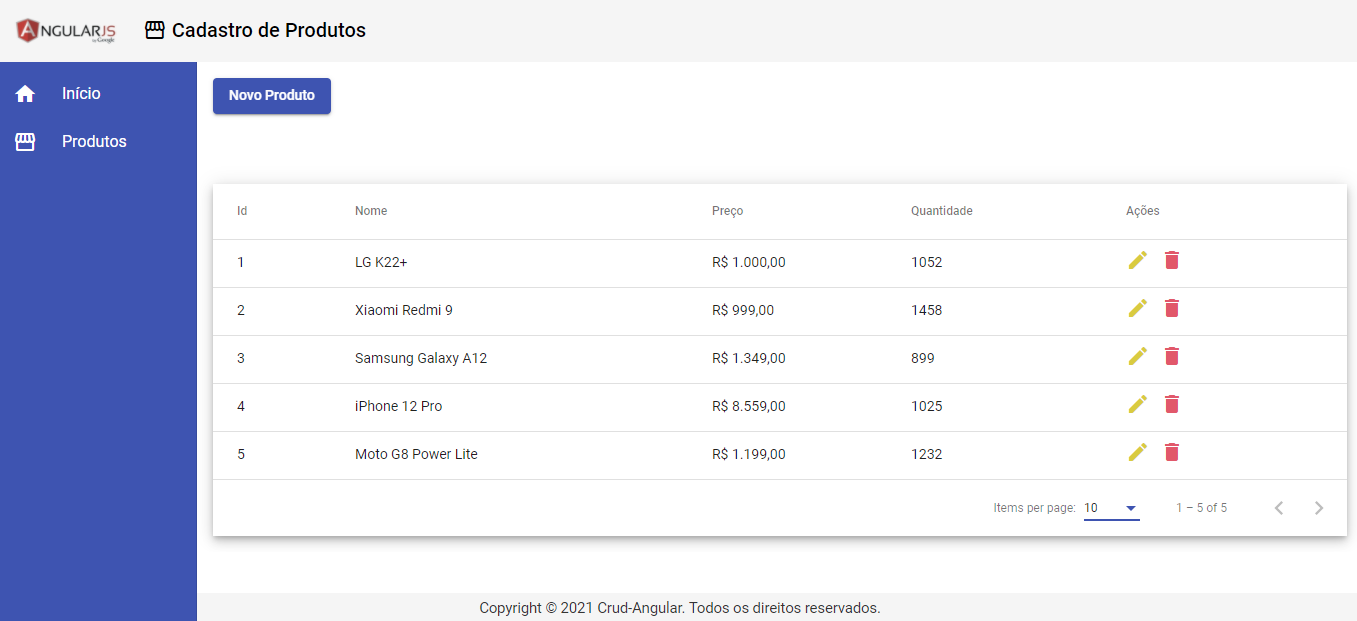
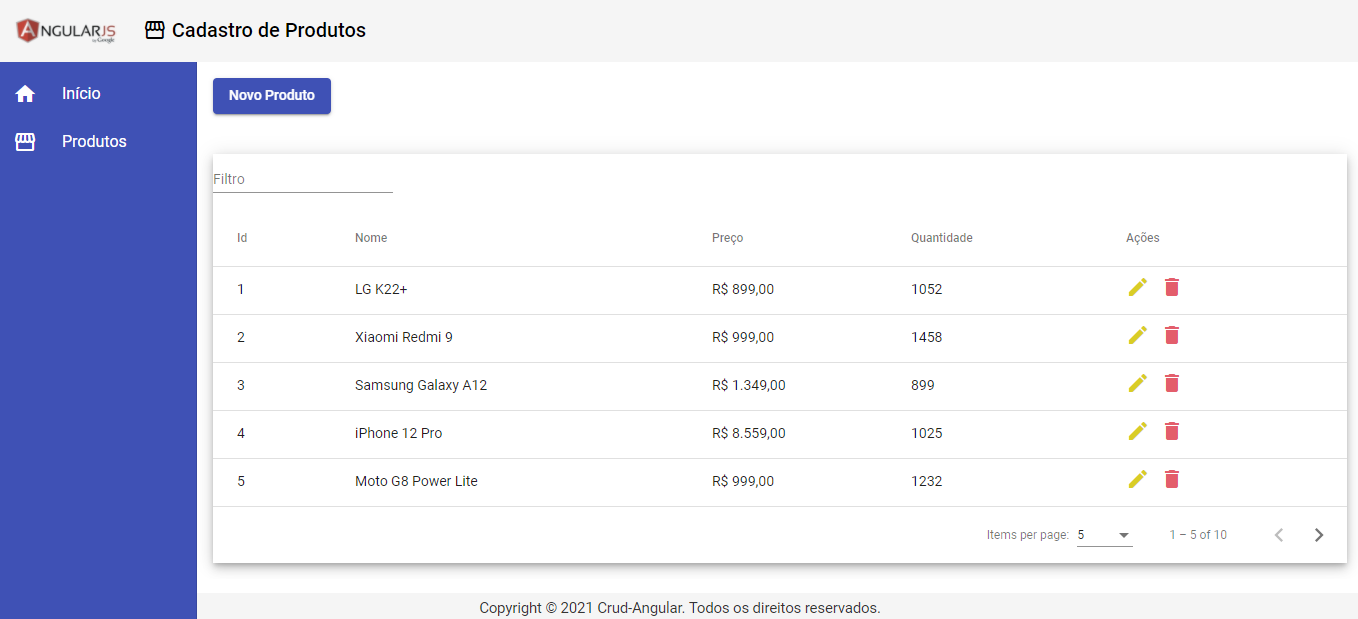
Inserção do campo de filtro

diff --git a/frontend/src/app/components/product/product-read3/product-read3.component.ts b/frontend/src/app/components/product/product-read3/product-read3.component.ts
@@ -1,23 +1,22 @@
-
 import { ProductService } from './../product.service';
 import { Product } from './../product.model';
 import { Component, OnInit, ViewChild, AfterViewInit } from '@angular/core';
 import { MatSort } from '@angular/material/sort';
 import { MatPaginator } from '@angular/material/paginator';
 import { MatTableDataSource } from '@angular/material/table';
-
-
 @Component({
   selector: 'app-product-read3',
   templateUrl: './product-read3.component.html',
   styleUrls: ['./product-read3.component.css']
 })
+
 export class ProductRead3Component implements OnInit, AfterViewInit {
 
   products!: Product[]
 
   public displayedColumns = ['id', 'name', 'price', 'storage', 'action']
   public dataSource = new MatTableDataSource<Product>();
+
   @ViewChild(MatSort) sort!: MatSort;
   @ViewChild(MatPaginator) paginator!: MatPaginator;
 
@@ -35,4 +34,7 @@ export class ProductRead3Component implements OnInit, AfterViewInit {
     this.dataSource.paginator = this.paginator
   }
 
+  applyFilter(filterValue: string) {
+    this.dataSource.filter = filterValue.trim().toLocaleLowerCase()
+  }
 }

diff --git a/frontend/src/app/components/product/product-read3/product-read3.component.html b/frontend/src/app/components/product/product-read3/product-read3.component.html
@@ -1,4 +1,11 @@
 <div class="mat-elevation-z6">
+  <!-- Filter input -->
+  <div fxLayout fxLayoutAlign="right">
+    <mat-form-field fxFlex="10%">
+      <input (keyup)="applyFilter($any($event.target).value)" type="text" placeholder="Filtro" matInput>
+    </mat-form-field>
+  </div>
+
   <table mat-table [dataSource]="dataSource" matSort>
     <!-- Id Column -->
     <ng-container matColumnDef="id">
@@ -45,6 +52,6 @@
     <tr mat-row *matRowDef="let row; columns: displayedColumns;"></tr>
 
   </table>
-  <mat-paginator [pageSize]="4" [pageSizeOptions]="[2, 4, 6, 10, 20]">
+  <mat-paginator [pageSize]="5" [pageSizeOptions]="[5, 10, 20]">
   </mat-paginator>
 </div>

diff --git a/frontend/src/app/app.module.ts b/frontend/src/app/app.module.ts
@@ -35,7 +35,6 @@ import { ProductCrudComponent } from './views/product-crud/product-crud.componen
 import { ProductRead2Component } from './components/product/product-read2/product-read2.component';
 import { ProductRead3Component } from './components/product/product-read3/product-read3.component';
 
-
 registerLocaleData(localePt)
 @NgModule({
   declarations: [
@@ -72,6 +71,7 @@ registerLocaleData(localePt)
     MatTableModule,
     MatPaginatorModule,
     MatSortModule
+
   ],
   providers: [{
     provide: LOCALE_ID,

diff --git a/frontend/src/app/components/product/product-read3/product-read3.component.css b/frontend/src/app/components/product/product-read3/product-read3.component.css
@@ -13,3 +13,7 @@ table {
 .delete > i {
   color: #e35e6b
 }
+
+input {
+  margin-left: 15px;
+}

diff --git a/frontend/src/app/views/product-crud/product-crud.component.css b/frontend/src/app/views/product-crud/product-crud.component.css
@@ -1,3 +1,3 @@
 button {
-  margin-bottom: 70px;
+  margin-bottom: 40px;
 }
